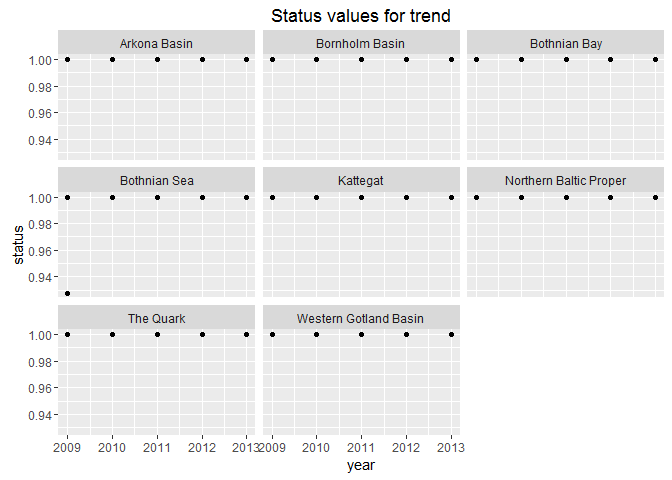
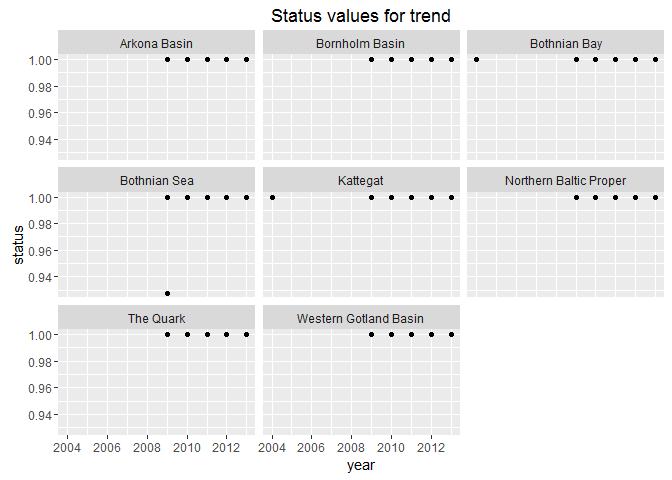
updated dioxin trend to be calculated over 10yrs 2004-2013

diff --git a/baltic2015/prep/CW/contaminants/contaminants_prep.md b/baltic2015/prep/CW/contaminants/contaminants_prep.md
@@ -140,11 +140,17 @@ TEQ values from the [World Health Organization 2005](http://www.who.int/ipcs/ass
 
 ### 1.4 (3) PFOS indicator
 
-[HELCOM PFOS core indicator document](http://www.helcom.fi/Core%20Indicators/PFOS_HELCOM%20core%20indicator%202016_web%20version.pdf)
+"GES boundary is set to 9.1 μg/kg wet weight (or 9.1 ng/g ww) with the protection goal of human health"" according to [HELCOM PFOS core indicator document, p.3](http://www.helcom.fi/Core%20Indicators/PFOS_HELCOM%20core%20indicator%202016_web%20version.pdf).
+
+"The GES boundary is an environmental quality standard (EQS), derived at EU level as a substance included on the list of priority substances under the Water Framework Directive (European Commission 2000, 2013). GES, in accordance with the MSFD is defined as 'concentrations of contaminants at levels not giving rise to pollution effects'. EQS are derived from ecotoxicological studies to protect freshwater and marine ecosystems from potential adverse effects of chemicals, as well as adverse effects on human health via drinking water and food from aquatic environments. Quality Standards (QS) are derived for different protection goals, i.e.: pelagic and benthic communities, top-predators in these ecosystems, and human health. The most stringent of these QS is the basis for the EQS. The EQS boundary for PFOS is based on the QS set for biota to protect human health (9.1 μg/ kg fish ww), defined for edible parts in fish. For harmonization purposes the EC Guidance Document No. 32 on biota monitoring (the implementation of EQS biota) under the WFD was developed (European Commission 2014). This guidance document recommends that the results from the monitoring should be standardized to represent fish at a trophic level of 4, which is an estimate of the general trophic level in commercial fish in Europe. The recommendation to obtain PFOS data in fish at a trophic level of 4 is to adjust the values from monitoring in accordance with trophic magnification factors and trophic level."[HELCOM PFOS core indicator document, p.8](http://www.helcom.fi/Core%20Indicators/PFOS_HELCOM%20core%20indicator%202016_web%20version.pdf)
+
+**HELCOM core indicator report uses liver PFOS concentrations converted to muscle equivalent values** as in [Faxneld et al. 2014b](https://www.diva-portal.org/smash/get/diva2:767385/FULLTEXT01.pdf).
 
 ### 1.5 Additional references
 
-[Faxneld et al. 2014](http://www.diva-portal.org/smash/record.jsf?pid=diva2%3A728508&dswid=1554) Biological effects and environmental contaminants in herring and Baltic Sea top predators
+[Faxneld et al. 2014a](http://www.diva-portal.org/smash/record.jsf?pid=diva2%3A728508&dswid=1554) Biological effects and environmental contaminants in herring and Baltic Sea top predators
+
+[Faxneld et al. 2014b](https://www.diva-portal.org/smash/get/diva2:767385/FULLTEXT01.pdf)Distribution of PFAS in liver and muscle of herring, perch, cod, eelpout, arctic char, and pike from limnic and marine environments in Sweden.
 
 [Bignert, A., Nyberg, E., Sundqvist, K.L., Wiberg, K., 2007. Spatial variation in concentrations and patterns of the PCDD/F and dioxin-like PCB content in herring from the northern Baltic Sea. J. Environ. Monit. 9, 550–556.](http://pubs.rsc.org/en/Content/ArticleLanding/2007/EM/b700667e#!divAbstract)
 
@@ -3520,7 +3526,7 @@ ggplot(dioxin_teq_status)+
 
 ### 5.13 Dioxin trend value
 
-Calculate, by taking the observations between 2009-2013 (those averaged for the status value),transform to a status value, and take the trend of the status on the basin scale
+Calculate, by taking the observations between 2004-2013 (those averaged for the status value),transform to a status value, and take the trend of the status on the basin scale
 
 This is consistent with the ICES6 approach.
 
@@ -3528,7 +3534,7 @@ This is consistent with the ICES6 approach.
 
 ``` r
 teq_trend_data =join_teq_basins %>%
-                 filter(year >= 2009 & year < 2014)
+                 filter(year >= 2004 & year < 2014)
 
 teq_trend_data = teq_trend_data %>%
                  select(basin,year, tot_teq, teq_threshold_pg_g)%>%
@@ -3564,16 +3570,16 @@ teq_trend
 
     ## Source: local data frame [8 x 2]
     ## 
-    ##                    basin  trend_score
-    ##                    <chr>        <dbl>
-    ## 1           Arkona Basin 4.965068e-16
-    ## 2         Bornholm Basin 2.866584e-16
-    ## 3           Bothnian Bay 2.866584e-16
-    ## 4           Bothnian Sea 2.009569e-02
-    ## 5               Kattegat 0.000000e+00
-    ## 6 Northern Baltic Proper 0.000000e+00
-    ## 7              The Quark 4.965068e-16
-    ## 8  Western Gotland Basin 4.965068e-16
+    ##                    basin   trend_score
+    ##                    <chr>         <dbl>
+    ## 1           Arkona Basin  4.965068e-16
+    ## 2         Bornholm Basin  2.866584e-16
+    ## 3           Bothnian Bay  0.000000e+00
+    ## 4           Bothnian Sea  2.009569e-02
+    ## 5               Kattegat -3.630331e-16
+    ## 6 Northern Baltic Proper  0.000000e+00
+    ## 7              The Quark  4.965068e-16
+    ## 8  Western Gotland Basin  4.965068e-16
 
 #### 5.13.4 Plot teq trend by basin
 
